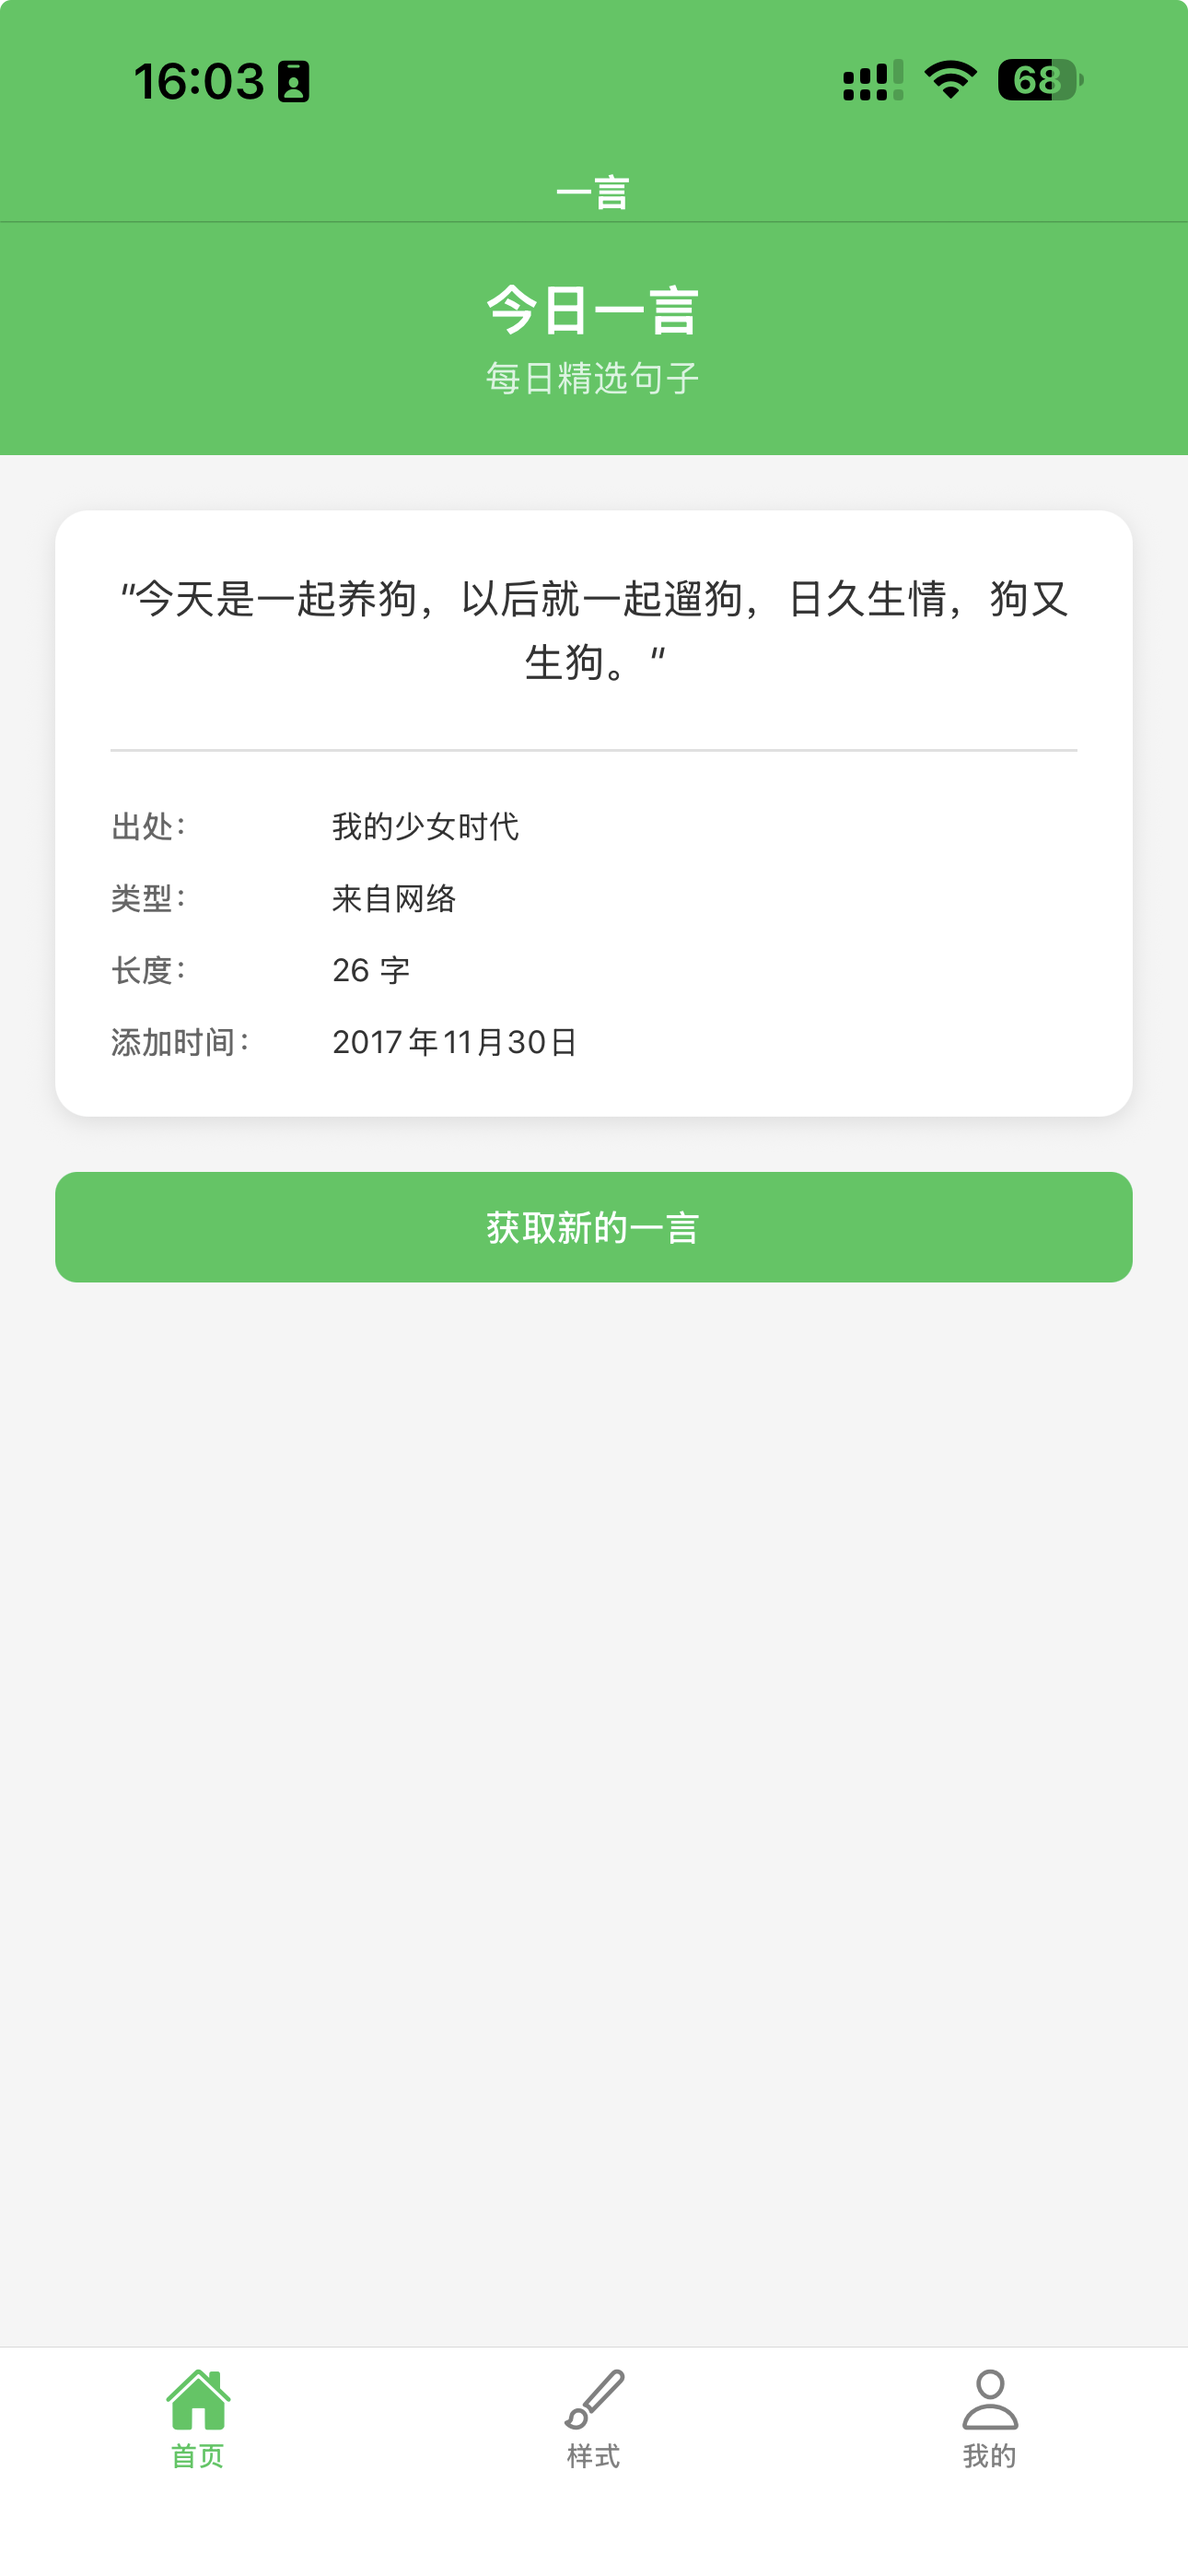
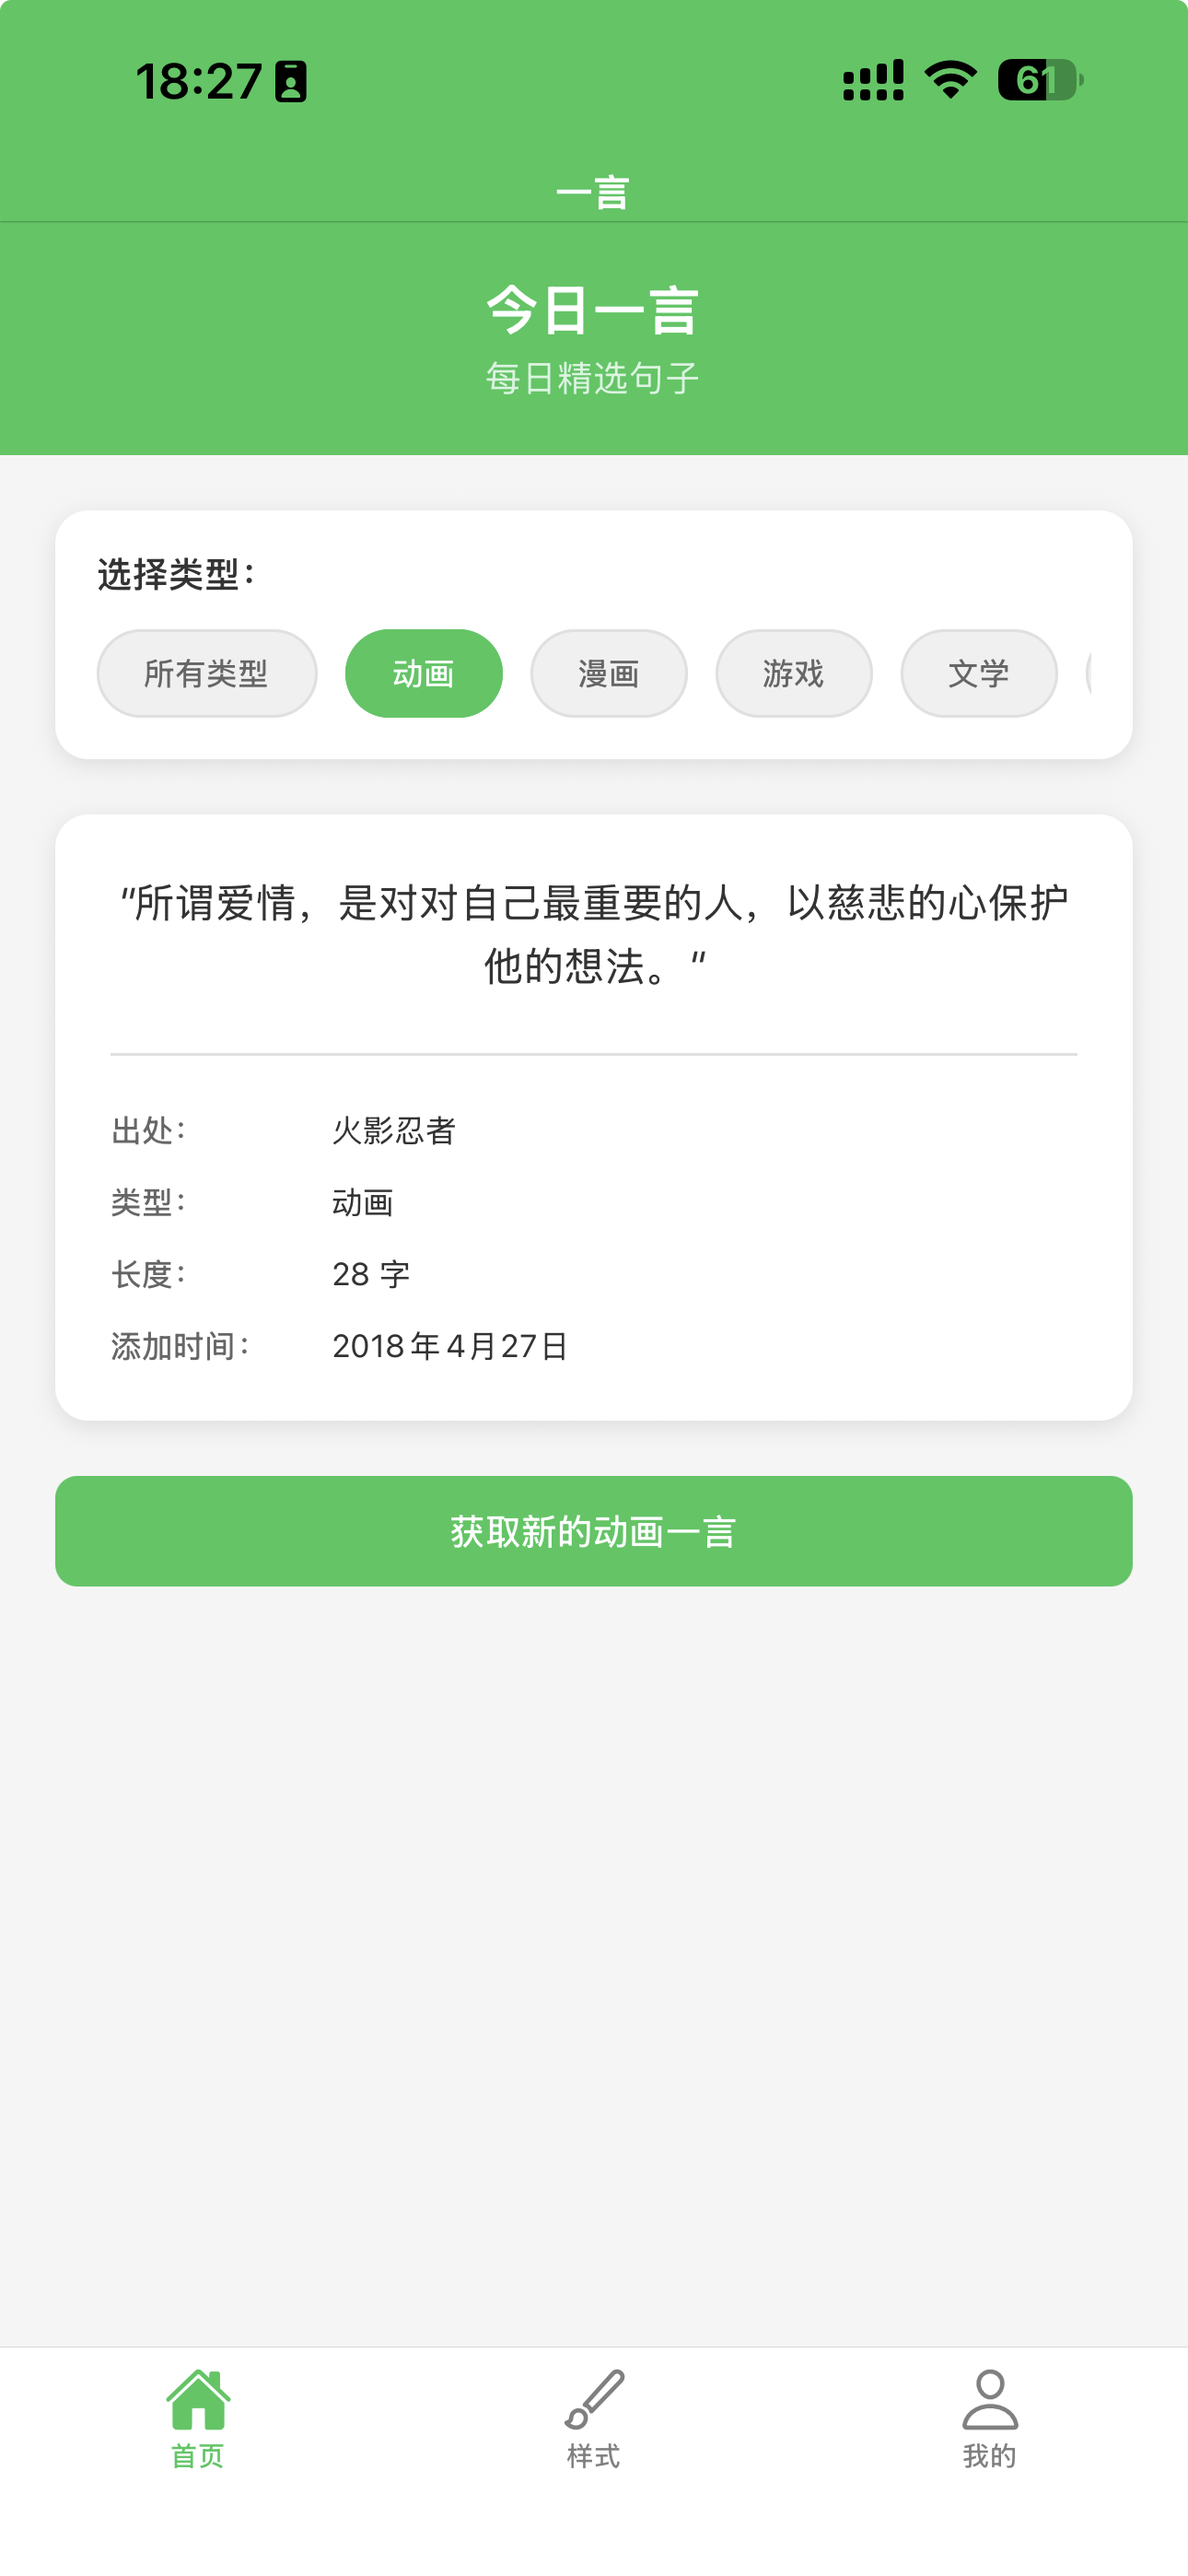
✨ feat(home): implement hitokoto type selection
- add type selection feature to allow users to filter hitokoto by category
- introduce typeMap for mapping type codes to human-readable names
- update fetchHitokoto to accept a type parameter for filtering
- add a horizontal scroll view for displaying type options
- style the type selector and buttons for a clean user interface
- update refresh button text dynamically based on selected type
- include screenshot of updated home screen with type selection

diff --git a/src/screens/HomeScreen.tsx b/src/screens/HomeScreen.tsx
@@ -11,14 +11,35 @@ import {
 } from 'react-native';
 import { HitokotoData } from '../types';
 
+// 类型映射
+const typeMap: { [key: string]: string } = {
+  all: '所有类型',
+  a: '动画',
+  b: '漫画',
+  c: '游戏',
+  d: '文学',
+  e: '原创',
+  f: '来自网络',
+  g: '其他',
+  h: '影视',
+  i: '诗词',
+  j: '网易云',
+  k: '哲学',
+  l: '抖机灵'
+};
+
 export default function HomeScreen() {
   const [hitokoto, setHitokoto] = useState<HitokotoData | null>(null);
   const [loading, setLoading] = useState(true);
   const [refreshing, setRefreshing] = useState(false);
+  const [selectedType, setSelectedType] = useState<string>('all');
 
-  const fetchHitokoto = async () => {
+  const fetchHitokoto = async (type: string = selectedType) => {
     try {
-      const response = await fetch('https://v1.hitokoto.cn/');
+      const url = type === 'all'
+        ? 'https://v1.hitokoto.cn/'
+        : `https://v1.hitokoto.cn/?c=${type}`;
+      const response = await fetch(url);
       const data: HitokotoData = await response.json();
       setHitokoto(data);
     } catch (error) {
@@ -37,6 +58,12 @@ export default function HomeScreen() {
   const onRefresh = () => {
     setRefreshing(true);
     fetchHitokoto();
+  };
+
+  const handleTypeChange = (type: string) => {
+    setSelectedType(type);
+    setLoading(true);
+    fetchHitokoto(type);
   };
 
   const formatDate = (timestamp: string) => {
@@ -67,6 +94,35 @@ export default function HomeScreen() {
       <View style={styles.header}>
         <Text style={styles.title}>今日一言</Text>
         <Text style={styles.subtitle}>每日精选句子</Text>
+      </View>
+
+      {/* 类型选择器 */}
+      <View style={styles.typeSelector}>
+        <Text style={styles.typeSelectorTitle}>选择类型：</Text>
+        <ScrollView
+          horizontal
+          showsHorizontalScrollIndicator={false}
+          style={styles.typeScrollView}
+          contentContainerStyle={styles.typeScrollContent}
+        >
+          {Object.entries(typeMap).map(([key, value]) => (
+            <TouchableOpacity
+              key={key}
+              style={[
+                styles.typeButton,
+                selectedType === key && styles.typeButtonActive
+              ]}
+              onPress={() => handleTypeChange(key)}
+            >
+              <Text style={[
+                styles.typeButtonText,
+                selectedType === key && styles.typeButtonTextActive
+              ]}>
+                {value}
+              </Text>
+            </TouchableOpacity>
+          ))}
+        </ScrollView>
       </View>
 
       {hitokoto && (
@@ -107,18 +163,15 @@ export default function HomeScreen() {
       )}
 
       <TouchableOpacity style={styles.refreshButton} onPress={onRefresh}>
-        <Text style={styles.refreshButtonText}>获取新的一言</Text>
+        <Text style={styles.refreshButtonText}>
+          {selectedType === 'all' ? '获取新的一言' : `获取新的${typeMap[selectedType]}一言`}
+        </Text>
       </TouchableOpacity>
     </ScrollView>
   );
 }
 
 function getTypeText(type: string): string {
-  const typeMap: { [key: string]: string } = {
-    a: '动画', b: '漫画', c: '游戏', d: '文学', 
-    e: '原创', f: '来自网络', g: '其他', 
-    h: '影视', i: '诗词', j: '网易云', k: '哲学', l: '抖机灵'
-  };
   return typeMap[type] || '未知';
 }
 
@@ -207,5 +260,50 @@ const styles = StyleSheet.create({
     color: 'white',
     fontSize: 16,
     fontWeight: '500',
+  },
+  typeSelector: {
+    backgroundColor: 'white',
+    marginHorizontal: 20,
+    marginTop: 20,
+    borderRadius: 12,
+    padding: 15,
+    shadowColor: '#000',
+    shadowOffset: { width: 0, height: 2 },
+    shadowOpacity: 0.1,
+    shadowRadius: 4,
+    elevation: 3,
+  },
+  typeSelectorTitle: {
+    fontSize: 16,
+    fontWeight: '600',
+    color: '#333',
+    marginBottom: 12,
+  },
+  typeScrollView: {
+    flexGrow: 0,
+  },
+  typeScrollContent: {
+    paddingRight: 10,
+  },
+  typeButton: {
+    backgroundColor: '#f0f0f0',
+    paddingHorizontal: 16,
+    paddingVertical: 8,
+    borderRadius: 20,
+    marginRight: 10,
+    borderWidth: 1,
+    borderColor: '#e0e0e0',
+  },
+  typeButtonActive: {
+    backgroundColor: '#34C759',
+    borderColor: '#34C759',
+  },
+  typeButtonText: {
+    fontSize: 14,
+    color: '#666',
+    fontWeight: '500',
+  },
+  typeButtonTextActive: {
+    color: 'white',
   },
 });
